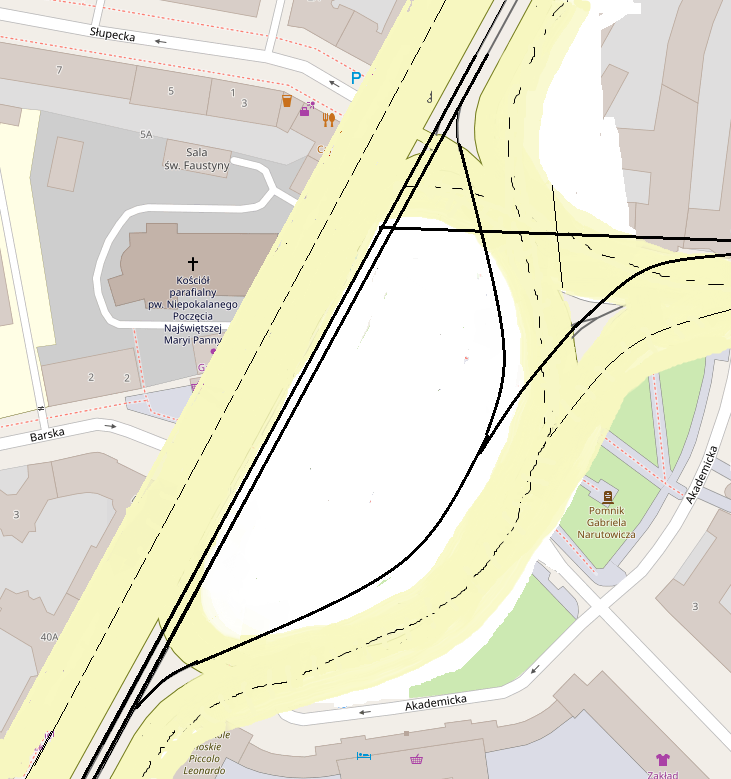
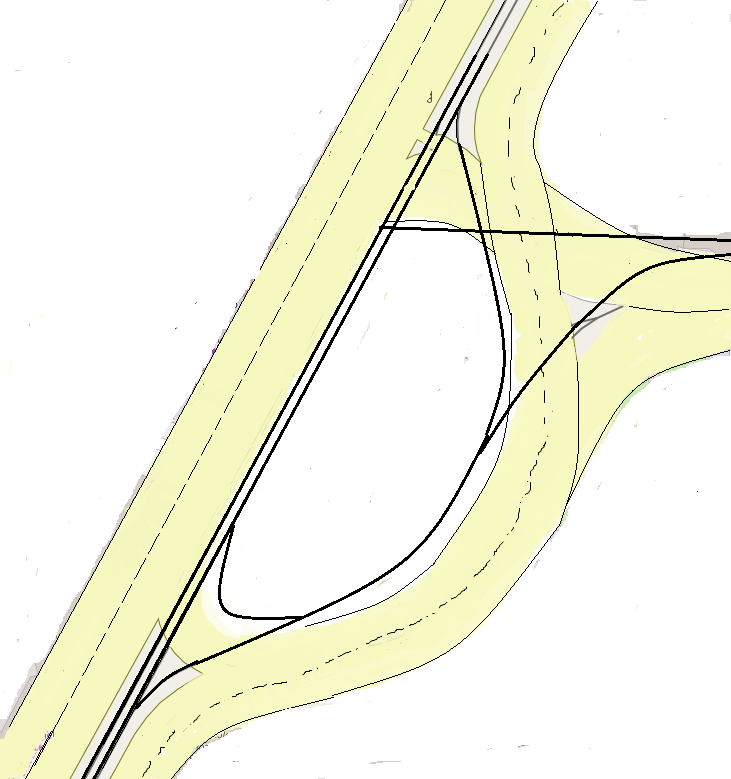
new img

diff --git a/src/com/ms/Grafika.java b/src/com/ms/Grafika.java
@@ -16,106 +16,71 @@ import javafx.scene.input.MouseEvent;
 import javafx.scene.shape.*;
 import javafx.scene.text.Text;
 
-
-
-public class Grafika extends Application{
+public class Grafika extends Application {
 
 	@Override
-	public void start(Stage primaryStage) throws InterruptedException 
-	{
-		
-		
+	public void start(Stage primaryStage) throws InterruptedException {
+
 		StackPane stackPane = new StackPane();
-		Scene scene = new Scene(stackPane,731,779);
-		
-		scene.setOnMouseClicked(mouseHandler);
-       // scene.setOnMouseDragged(mouseHandler);
-        //scene.setOnMouseEntered(mouseHandler);
-        //scene.setOnMouseExited(mouseHandler);
-        //scene.setOnMouseMoved(mouseHandler);
-        //scene.setOnMousePressed(mouseHandler);
-        //scene.setOnMouseReleased(mouseHandler);
-		
+		Scene scene = new Scene(stackPane, 731, 779);
+
 		primaryStage.setScene(scene);
 		primaryStage.setTitle("Plac Narutowicza");
 		primaryStage.show();
-		
-		//Button button = new Button();
-		
-		Image image = new Image("file:plN_v2.png");
+
+
+		Image image = new Image("file:plN_v3.png");
 		ImageView iv = new ImageView();
 		iv.setImage(image);
 		stackPane.getChildren().add(iv);
-		//stackPane.getChildren().add(button);
 		
-		final Circle car = new Circle(3,3,3);
-		//car.setCenterX(-356.0f); to first 
-		//car.setCenterY(77.0f);	and second path
-		car.setCenterX(-110.0f); 	//third and
-		car.setCenterY(380.0f); 	// forth path
+		final Circle tram = new Circle (5,5,5);
+		tram.setCenterX(0.0f);
+		tram.setCenterY(0.0f);
 		
+		final Circle car = new Circle(5, 5, 5);
+		//car.setCenterX(-370.0f); // to first
+		//car.setCenterY(100.0f); // and second path
+		
+		//car.setCenterX(-65); // to third path
+		//car.setCenterY(395); //
+		
+		car.setCenterX(0);
+		car.setCenterY(0);
+		
+		tram.setFill(Color.PURPLE);
 		car.setFill(Color.BLACK);
 		stackPane.getChildren().add(car);
-		
-		//Text text = new Text("This is a car, darkred car");
-		
-		//Group group = new Group(car, text);
-		
+
+
 		Path path = new Path();
-		//path.getElements().add(new MoveTo(0,0));
-		//path.getElements().add(new CubicCurveTo(-160,-20,-170,-25,-175,-36));		//first path moveto 00
-		//path.getElements().add(new CubicCurveTo(-190,-50,-200,-90,-242,-175));
-		//path.getElements().add(new CubicCurveTo(-243,-173,-242,-178,-239,-205));
-		//path.getElements().add(new CubicCurveTo(-235,-220,-218,-250,-165,-350));
+
+		path.getElements().add(new MoveTo(370, -110));
+		path.getElements().add(new CubicCurveTo(30, -140, 50, -200, -50, -140)); //first
 		
 		
-		path.getElements().add(new MoveTo());
-		//path.getElements().add(new CubicCurveTo(-160,-20,-170,-25,-190,-36));  second path move to 00
-		//path.getElements().add(new CubicCurveTo(-195,-50,-210,-90,-250,-133)); 
-		//path.getElements().add(new CubicCurveTo(-255,-140,-280,-150,-330,-130)); 
-		//path.getElements().add(new CubicCurveTo(-333,-130,-400,-10,-725,600));
+//		path.getElements().add(new MoveTo(0, 0));
+//		path.getElements().add(new CubicCurveTo(-160, -40, -170, -50, -175, -55)); //second
+//		path.getElements().add(new CubicCurveTo(-175, -55, -250, -70, -330, -100));
+//		path.getElements().add(new CubicCurveTo(-332, -95, -370, -90, -410, -85));
+//		path.getElements().add(new LineTo(-750,500));
+
+//		path.getElements().add(new MoveTo(0, 0)); //third
+//		path.getElements().add(new LineTo(-435,800));
 		
-		//path.getElements().add(new CubicCurveTo(-100,200,-150,220,-310,590)); //third path
-		//path.getElements().add(new CubicCurveTo(-305,595,-300,620,-270,650));
-		//path.getElements().add(new CubicCurveTo(-260,660,-235,650,-200,655));
-		//path.getElements().add(new CubicCurveTo(-195,642,-170,639,-130,645));
-		//path.getElements().add(new CubicCurveTo(-130,660,-70,630,-12,580));
-		//path.getElements().add(new LineTo(160,310));
-		//path.getElements().add(new CubicCurveTo(165,300,179,300,265,305));
-		
-		
-		path.getElements().add(new CubicCurveTo(-100,200,-150,220,-310,590)); //forth path
-		path.getElements().add(new CubicCurveTo(-305,595,-300,620,-270,650));
-		path.getElements().add(new CubicCurveTo(-260,660,-235,650,-200,655));
-		path.getElements().add(new CubicCurveTo(-195,642,-170,639,-130,645));
-		path.getElements().add(new CubicCurveTo(-130,660,-70,630,-12,580));
-		path.getElements().add(new LineTo(80,400));
-		path.getElements().add(new CubicCurveTo(70,300,60,220,30,200));
+		//path.getElements().add(new MoveTo(100, -400)); //forth
+		//path.getElements().add(new LineTo(-540,800));
 		
 		PathTransition pathT = new PathTransition();
 		pathT.setDuration(Duration.millis(10000));
 		pathT.setPath(path);
-		//pathT.setPath(path2);
 		pathT.setNode(car);
+		
 		//pathT.setCycleCount(Timeline.INDEFINITE);
 		pathT.setOrientation(PathTransition.OrientationType.ORTHOGONAL_TO_TANGENT);
 		pathT.setAutoReverse(true);
 		pathT.play();
-		
-	}
-	
-	
-	
-	EventHandler<MouseEvent> mouseHandler = new EventHandler<MouseEvent>() {
-		 
-        @Override
-        public void handle(MouseEvent mouseEvent) {
-            System.out.println(mouseEvent.getEventType() + "\n"
-                    + "X : Y - " + mouseEvent.getX() + " : " + mouseEvent.getY() + "\n"
-                    + "SceneX : SceneY - " + mouseEvent.getSceneX() + " : " + mouseEvent.getSceneY() + "\n"
-                    + "ScreenX : ScreenY - " + mouseEvent.getScreenX() + " : " + mouseEvent.getScreenY());
-	
 
 	}
-	};
+
 }
